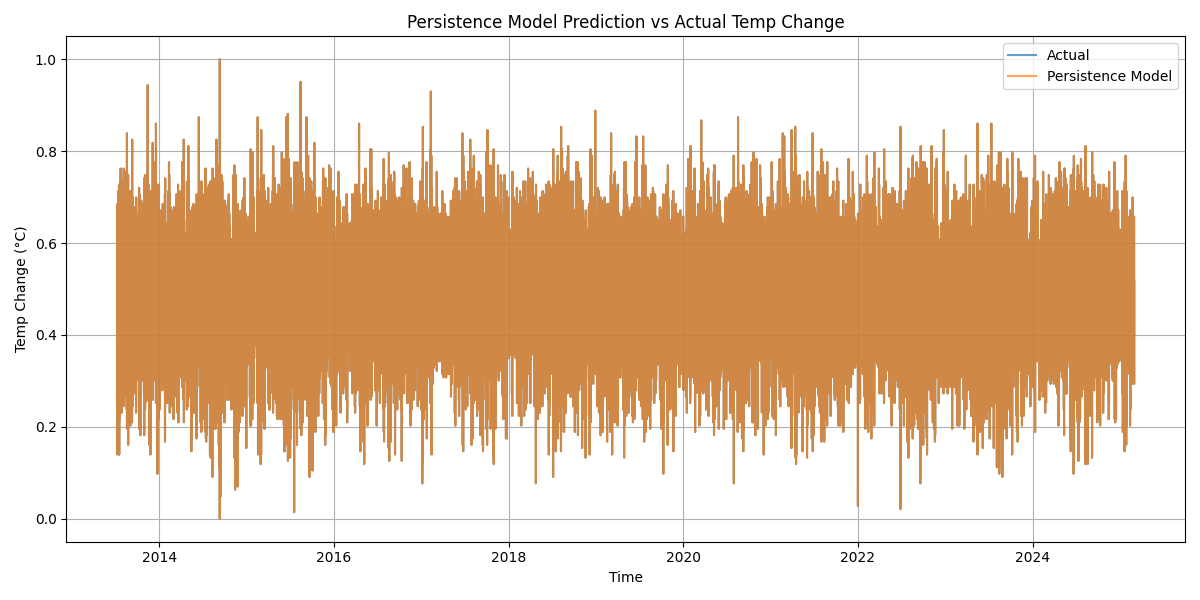
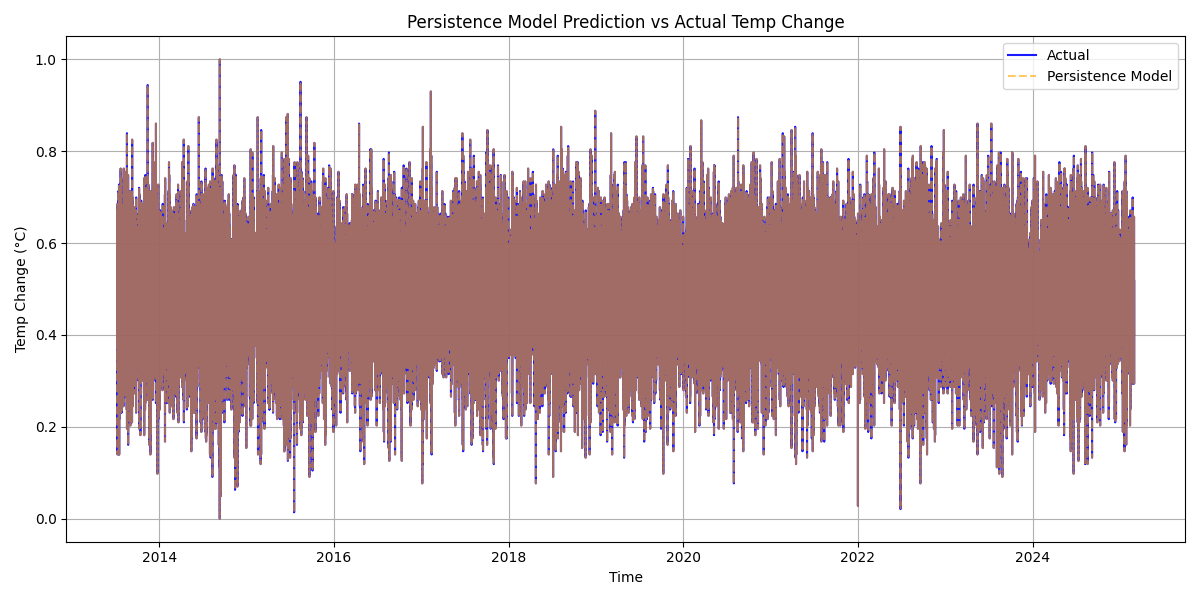
persistence

diff --git a/persistance_model.py b/persistance_model.py
@@ -25,8 +25,9 @@ print(f"Root Mean Squared Error: {rmse:.4f}\n")
 
 # Plot true vs predicted values
 plt.figure(figsize=(12, 6))
-plt.plot(df['Date/Time (LST)'], y_true, label='Actual', alpha=0.7)
-plt.plot(df['Date/Time (LST)'], y_pred, label='Persistence Model', alpha=0.7)
+plt.plot(df['Date/Time (LST)'], y_true, label='Actual', alpha=0.9, color='blue', linewidth=1.5)
+plt.plot(df['Date/Time (LST)'], y_pred, label='Persistence Model', alpha=0.6, color='orange', linestyle='--')
+
 plt.title('Persistence Model Prediction vs Actual Temp Change')
 plt.xlabel('Time')
 plt.ylabel('Temp Change (°C)')

diff --git a/LSTM_test.py b/LSTM_test.py
@@ -29,15 +29,12 @@ def create_sequences(data, target, seq_length):
     return np.array(X), np.array(y)
 
 
-
-# define sequence length (last 24 hours to predict the next hour)
-SEQ_LENGTH = min(24, len(df) - 1)
-
-
 # load and prepare data
 df = pd.read_csv("weather.csv")
 df["Date/Time (LST)"] = pd.to_datetime(df["Date/Time (LST)"])
 
+# define sequence length (last 24 hours to predict the next hour)
+SEQ_LENGTH = min(24, len(df) - 1)
 
 # create sequences of data and target variables
 feature_columns = df.columns.difference(["Date/Time (LST)", "temp change"]).tolist()
